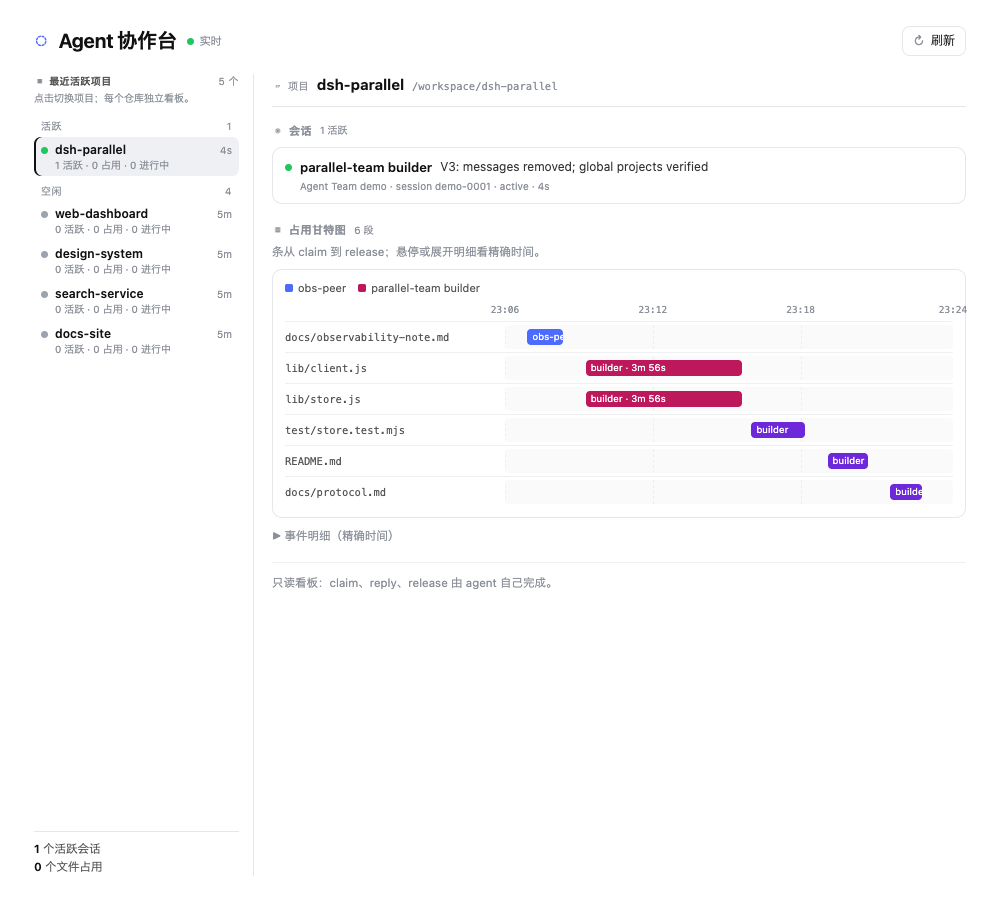
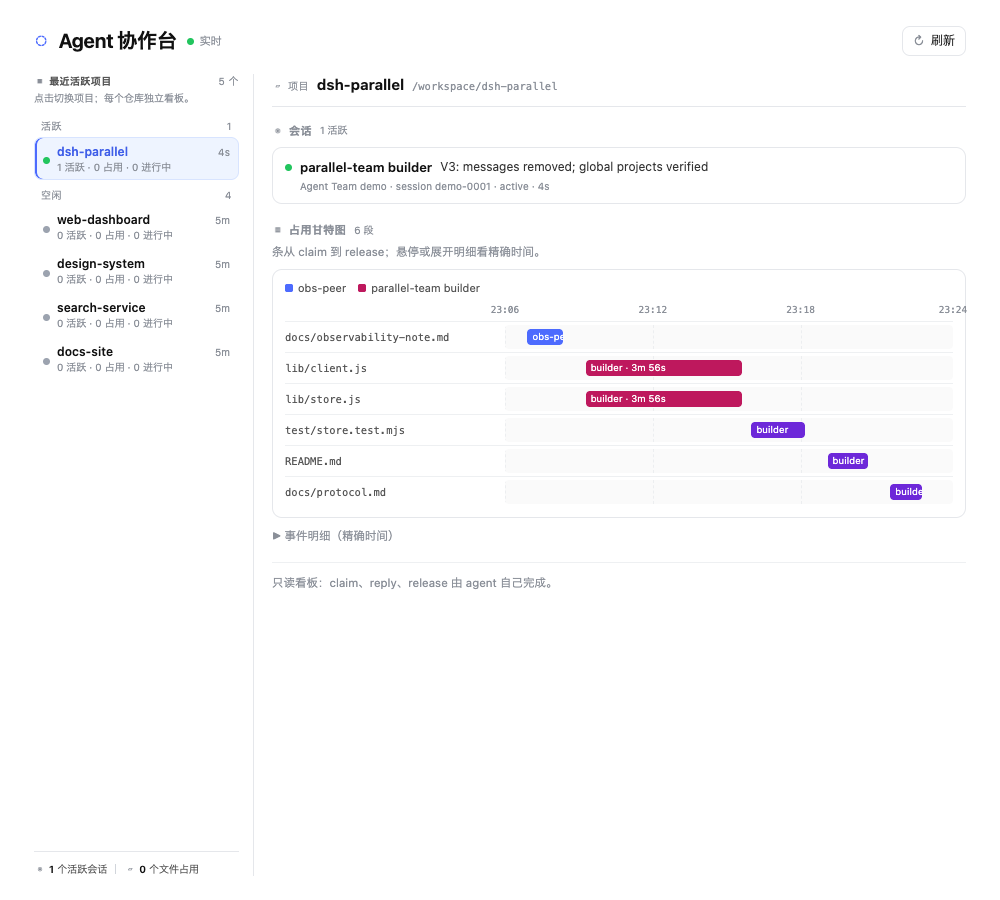
feat(ui): refine project buttons and inline sidebar stats

diff --git a/lib/client.js b/lib/client.js
@@ -108,10 +108,11 @@ window.__ModuleLoader__.load({
       '.pt-side-note{font-size:var(--pt-fs-10);line-height:1.4;color:var(--dsw-alias-label-tertiary,#8a8f98);margin:0 0 7px;white-space:nowrap;overflow:hidden;text-overflow:ellipsis}',
       '.pt-projects{display:flex;flex-direction:column;gap:1px;flex:1;min-height:0;overflow:auto;padding-right:2px;scrollbar-gutter:stable;scrollbar-color:var(--dsw-alias-border-l3,#d1d5db) transparent}',
       '.pt-project-group{display:flex;align-items:baseline;justify-content:space-between;gap:6px;padding:7px 7px 2px;font-size:10px;letter-spacing:.04em;text-transform:uppercase;color:var(--dsw-alias-label-tertiary,#8a8f98)}',
-      '.pt-project{display:flex;align-items:flex-start;gap:7px;width:100%;text-align:left;font:inherit;line-height:1.2;cursor:pointer;border:0;border-radius:7px;padding:5px 7px;background:transparent;color:inherit}',
+      '.pt-project{display:flex;align-items:center;gap:7px;width:100%;min-height:40px;text-align:left;font:inherit;line-height:1.2;cursor:pointer;border:1px solid transparent;border-radius:8px;padding:6px 8px;background:transparent;color:inherit;transition:background .15s ease,border-color .15s ease,box-shadow .15s ease}',
       '.pt-project:hover{background:var(--dsw-alias-bg-layer-2,#f1f2f4)}',
-      '.pt-project.selected{background:var(--dsw-alias-bg-layer-2,#eef0f3);box-shadow:inset 2px 0 0 var(--dsw-alias-label-primary,#111)}',
-      '.pt-project-dot{width:7px;height:7px;border-radius:50%;flex:none;margin-top:5px;background:var(--dsw-alias-label-dimmed,#9ca3af)}',
+      '.pt-project.selected{background:color-mix(in srgb,var(--dsw-alias-brand-primary,#4d6bfe) 9%,transparent);border-color:color-mix(in srgb,var(--dsw-alias-brand-primary,#4d6bfe) 22%,transparent);box-shadow:inset 2px 0 0 var(--dsw-alias-brand-primary,#4d6bfe)}',
+      '.pt-project.selected .pt-project-name{color:var(--dsw-alias-brand-primary,#4d6bfe)}',
+      '.pt-project-dot{width:7px;height:7px;border-radius:50%;flex:none;background:var(--dsw-alias-label-dimmed,#9ca3af)}',
       '.pt-project-dot.active{background:var(--dsw-alias-state-success-primary,#22c55e);animation:pt-dot-pulse 2.4s ease-out infinite}',
       '.pt-project-dot.claimed{background:var(--dsw-alias-state-warn-primary,#f59e0b)}',
       '.pt-project-body{display:flex;flex-direction:column;gap:1px;min-width:0;flex:1}',
@@ -120,13 +121,17 @@ window.__ModuleLoader__.load({
       '.pt-project-meta{font-size:var(--pt-fs-10);line-height:12px;color:var(--dsw-alias-label-tertiary,#8a8f98);overflow:hidden;text-overflow:ellipsis;white-space:nowrap}',
       '.pt-project-seen{font-size:var(--pt-fs-10);line-height:16px;color:var(--dsw-alias-label-tertiary,#8a8f98);flex:none}',
       '.pt-main{min-width:0}',
-      '.pt-side-foot{border-top:1px solid var(--dsw-alias-border-l2,#e5e7eb);margin-top:8px;padding-top:9px;display:flex;flex-direction:column;gap:2px;font-size:11.5px;color:var(--dsw-alias-label-secondary,#555)}',
-      '.pt-side-foot b{color:var(--dsw-alias-label-primary,#111);font-weight:650}',
+      '.pt-side-foot{display:flex;align-items:center;gap:8px;border-top:1px solid var(--dsw-alias-border-l2,#e5e7eb);margin-top:8px;padding-top:10px;font-size:var(--pt-fs-10);color:var(--dsw-alias-label-secondary,#555);white-space:nowrap;overflow:hidden}',
+      '.pt-stat{display:inline-flex;align-items:center;gap:3px;min-width:0}',
+      '.pt-stat span:last-child{overflow:hidden;text-overflow:ellipsis}',
+      '.pt-stat .pt-icon{color:var(--dsw-alias-label-tertiary,#8a8f98)}',
+      '.pt-stat b{color:var(--dsw-alias-label-primary,#111);font-weight:650}',
+      '.pt-stat-sep{width:1px;height:10px;flex:none;background:var(--dsw-alias-border-l3,#d1d5db)}',
       '.pt-current{display:flex;align-items:baseline;gap:8px;flex-wrap:nowrap;min-width:0;margin:0 0 16px;padding-bottom:10px;border-bottom:1px solid var(--dsw-alias-border-l2,#e5e7eb)}',
       '.pt-current-label{display:inline-flex;align-items:center;gap:4px;font-size:var(--pt-fs-10);text-transform:uppercase;letter-spacing:.04em;color:var(--dsw-alias-label-tertiary,#8a8f98);flex:none}',
       '.pt-current-name{font-size:var(--pt-fs-15);font-weight:650;color:var(--dsw-alias-label-primary,#111);white-space:nowrap;overflow:hidden;text-overflow:ellipsis;max-width:45%}',
       '.pt-current-path{font-family:var(--dsw-font-markdown-code-font-family,ui-monospace,SFMono-Regular,Menlo,monospace);font-size:var(--pt-fs-10);color:var(--dsw-alias-label-tertiary,#8a8f98);flex:1;min-width:0;white-space:nowrap;overflow:hidden;text-overflow:ellipsis}',
-      '@media(max-width:760px){.pt-layout{grid-template-columns:1fr}.pt-side{position:static;display:block;height:auto;max-height:none;align-self:auto;border-right:0;padding-right:0;border-bottom:1px solid var(--dsw-alias-border-l2,#e5e7eb);padding-bottom:8px}.pt-projects{display:flex;flex-direction:row;max-height:150px;overflow-x:auto;gap:4px;flex:none}.pt-project{min-width:170px;flex:none}.pt-project.selected{box-shadow:inset 0 -2px 0 var(--dsw-alias-label-primary,#111)}}',
+      '@media(max-width:760px){.pt-layout{grid-template-columns:1fr}.pt-side{position:static;display:block;height:auto;max-height:none;align-self:auto;border-right:0;padding-right:0;border-bottom:1px solid var(--dsw-alias-border-l2,#e5e7eb);padding-bottom:8px}.pt-projects{display:flex;flex-direction:row;max-height:150px;overflow-x:auto;gap:4px;flex:none}.pt-project{min-width:170px;flex:none}.pt-project.selected{box-shadow:inset 0 -2px 0 var(--dsw-alias-brand-primary,#4d6bfe)}}',
       '.pt-gantt{border:1px solid var(--dsw-alias-border-l2,#e5e7eb);border-radius:10px;padding:10px 12px;background:var(--dsw-alias-bg-base,#fff)}',
       '.pt-gantt-legend{display:flex;gap:12px;flex-wrap:wrap;margin-bottom:8px;font-size:11px;color:var(--dsw-alias-label-secondary,#555)}',
       '.pt-gantt-legend-item{display:inline-flex;align-items:center;gap:5px}',
@@ -240,6 +245,11 @@ window.__ModuleLoader__.load({
         ];
       } else if (props.name === 'folder') {
         content = h('path', { d: 'M3 7a2 2 0 0 1 2-2h5l2 2h7a2 2 0 0 1 2 2v8a2 2 0 0 1-2 2H5a2 2 0 0 1-2-2Z' });
+      } else if (props.name === 'file') {
+        content = [
+          h('path', { key: 'a', d: 'M14 2H6a2 2 0 0 0-2 2v16a2 2 0 0 0 2 2h12a2 2 0 0 0 2-2V8Z' }),
+          h('path', { key: 'b', d: 'M14 2v6h6' }),
+        ];
       }
       return h(
         'svg',
@@ -363,6 +373,7 @@ window.__ModuleLoader__.load({
           className: 'pt-project' + (selected ? ' selected' : ''),
           onClick: () => props.onSelect(project.root),
           title,
+          'aria-current': selected ? 'page' : undefined,
         },
         h('span', { className: 'pt-project-dot ' + status }),
         h(
@@ -840,8 +851,21 @@ window.__ModuleLoader__.load({
                     h(
                       'div',
                       { className: 'pt-side-foot' },
-                      h('span', null, h('b', null, String(stats.active)), ' ', L('个活跃会话', 'active sessions')),
-                      h('span', null, h('b', null, String(claims.length)), ' ', L('个文件占用', 'files in use')),
+                      h(
+                        'span',
+                        { className: 'pt-stat' },
+                        h(Icon, { name: 'users', size: 12 }),
+                        h('b', null, String(stats.active)),
+                        h('span', null, L(' 个活跃会话', ' active')),
+                      ),
+                      h('span', { className: 'pt-stat-sep' }),
+                      h(
+                        'span',
+                        { className: 'pt-stat' },
+                        h(Icon, { name: 'file', size: 12 }),
+                        h('b', null, String(claims.length)),
+                        h('span', null, L(' 个文件占用', ' files')),
+                      ),
                     ),
                   ),
                   h(
